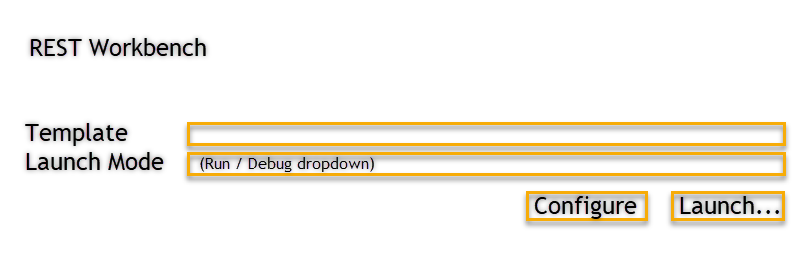
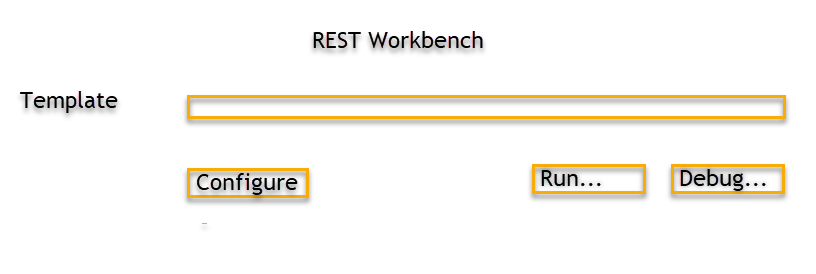
change notice; debug buttons

diff --git a/designs/sam-debugging/local-sam-debugging.md b/designs/sam-debugging/local-sam-debugging.md
@@ -48,7 +48,7 @@ Each scenario has one or more relevant user experiences. The different debugging
 
 SAM Template resources of type `AWS::Serverless::Function` represent Lambda functions. Lambda function code referenced by these resources can be locally Run or Debugged. The Toolkit uses SAM CLI to invoke the Lambda function, emulating how the function is run on AWS. A debugger can be attached to the invoked Lambda function code, and the event passed into the Lambda function can be customized.
 
-### SAM Template Resources (API Gateway style Local Invoke)
+### <a id="sam-template-resource-api-gateway"></a> SAM Template Resources (API Gateway style Local Invoke)
 
 SAM Template resources that contain an event of type [Api](https://docs.aws.amazon.com/serverless-application-model/latest/developerguide/sam-property-function-api.html), can be hosted in a web server for local development and iteration. A REST request triggers the Lambda handler as if it were called by API Gateway, and the Lambda function receives an API Gateway based event.
 
@@ -102,8 +102,9 @@ The Toolkit implements a Debug Configuration type `aws-sam`. Users can author an
 -   validates debug configuration inputs (see [Debug Configuration Validations](#debug-configuration-validation))
 -   uses SAM CLI to build a SAM Application
 -   uses SAM CLI to invoke a SAM Template resource
+-   if the Debug Configuration is for an [API Gateway SAM Template Resource](#sam-template-resource-api-gateway), the configured REST request is sent
 -   attaches a debugger to the SAM invocation
--   if the debug configuration is for a local api gateway invoke, the debugger is detached after the http request is made, but SAM CLI remains active. The debug configuration implementation terminates the SAM CLI session to prevent a proliferation of CLI processes.
+-   if the Debug Configuration is for an [API Gateway SAM Template Resource](#sam-template-resource-api-gateway), the SAM-based http host is terminated to prevent a proliferation of CLI processes
 
 In the most basic form, the debug configuration references a SAM Template file location, and a resource within that file. Other execution parameters can be configured, but are optional.
 
@@ -201,6 +202,11 @@ Here is an outline of the differences between this design and version 1.0.0 of t
 
 -   Changed functionality
     -   CodeLenses on code files invoke the function in isolation, and no longer attempt to associate the function with a SAM Template
+        -   This change may surprise existing users. There is a high likelihood that they will prefer using F5 to debug their SAM Applications instead of searching for the CodeLenses. To mitigate this change, we have the following strategies:
+            -   publicize the change (through a PR of this document)
+            -   ensure the changelog entry suitably explains the impact when the change is made
+            -   update the user docs
+            -   describe behavior explicitly where appropriate ( for example, in tooltips)
     -   CodeLens configurations have a new location and structure
 -   New functionality
     -   `aws-sam` Debug Configurations provide a new way to launch debug sessions against SAM Template resources
